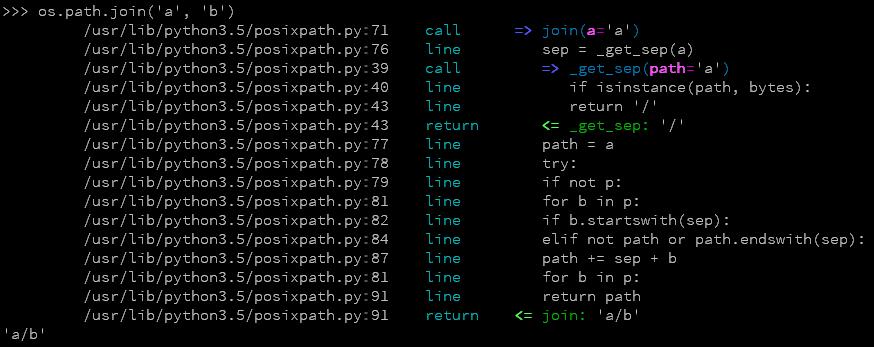
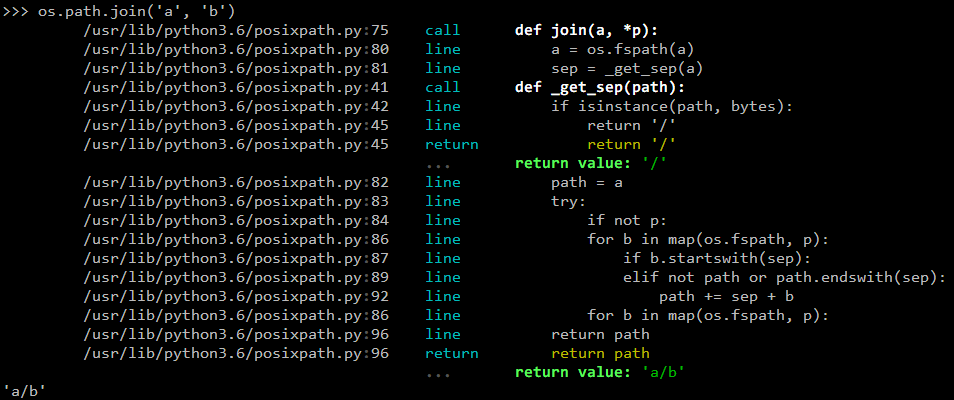
Update examples and screenshots.

diff --git a/README.rst b/README.rst
@@ -96,22 +96,23 @@ That would result in:
 .. sourcecode:: pycon
 
     >>> os.path.join('a', 'b')
-             /usr/lib/python3.5/posixpath.py:71    call      => join(a='a')
-             /usr/lib/python3.5/posixpath.py:76    line         sep = _get_sep(a)
-             /usr/lib/python3.5/posixpath.py:39    call         => _get_sep(path='a')
-             /usr/lib/python3.5/posixpath.py:40    line            if isinstance(path, bytes):
-             /usr/lib/python3.5/posixpath.py:43    line            return '/'
-             /usr/lib/python3.5/posixpath.py:43    return       <= _get_sep: '/'
-             /usr/lib/python3.5/posixpath.py:77    line         path = a
-             /usr/lib/python3.5/posixpath.py:78    line         try:
-             /usr/lib/python3.5/posixpath.py:79    line         if not p:
-             /usr/lib/python3.5/posixpath.py:81    line         for b in p:
-             /usr/lib/python3.5/posixpath.py:82    line         if b.startswith(sep):
-             /usr/lib/python3.5/posixpath.py:84    line         elif not path or path.endswith(sep):
-             /usr/lib/python3.5/posixpath.py:87    line         path += sep + b
-             /usr/lib/python3.5/posixpath.py:81    line         for b in p:
-             /usr/lib/python3.5/posixpath.py:91    line         return path
-             /usr/lib/python3.5/posixpath.py:91    return    <= join: 'a/b'
+             /usr/lib/python3.6/posixpath.py:75    call      => join(a='a')
+             /usr/lib/python3.6/posixpath.py:80    line         a = os.fspath(a)
+             /usr/lib/python3.6/posixpath.py:81    line         sep = _get_sep(a)
+             /usr/lib/python3.6/posixpath.py:41    call         => _get_sep(path='a')
+             /usr/lib/python3.6/posixpath.py:42    line            if isinstance(path, bytes):
+             /usr/lib/python3.6/posixpath.py:45    line            return '/'
+             /usr/lib/python3.6/posixpath.py:45    return       <= _get_sep: '/'
+             /usr/lib/python3.6/posixpath.py:82    line         path = a
+             /usr/lib/python3.6/posixpath.py:83    line         try:
+             /usr/lib/python3.6/posixpath.py:84    line         if not p:
+             /usr/lib/python3.6/posixpath.py:86    line         for b in map(os.fspath, p):
+             /usr/lib/python3.6/posixpath.py:87    line         if b.startswith(sep):
+             /usr/lib/python3.6/posixpath.py:89    line         elif not path or path.endswith(sep):
+             /usr/lib/python3.6/posixpath.py:92    line         path += sep + b
+             /usr/lib/python3.6/posixpath.py:86    line         for b in map(os.fspath, p):
+             /usr/lib/python3.6/posixpath.py:96    line         return path
+             /usr/lib/python3.6/posixpath.py:96    return    <= join: 'a/b'
     'a/b'
 
 In a terminal it would look like:
@@ -119,10 +120,13 @@ In a terminal it would look like:
 .. image:: https://raw.githubusercontent.com/ionelmc/python-hunter/master/docs/code-trace.png
 
 
-Custom actions
---------------
+Actions
+-------
 
-Output format can be controlled with "actions". There's an alternative ``CodePrinter`` action that doesn't handle nesting (it was the default action until Hunter 2.0). Example:
+Output format can be controlled with "actions". There's an alternative ``CodePrinter`` action that doesn't handle
+nesting (it was the default action until Hunter 2.0).
+
+If filters match then action will be run. Example:
 
 .. sourcecode:: python
 
@@ -137,23 +141,24 @@ That would result in:
 .. sourcecode:: pycon
 
     >>> os.path.join('a', 'b')
-             /usr/lib/python3.5/posixpath.py:71    call      def join(a, *p):
-             /usr/lib/python3.5/posixpath.py:76    line          sep = _get_sep(a)
-             /usr/lib/python3.5/posixpath.py:39    call      def _get_sep(path):
-             /usr/lib/python3.5/posixpath.py:40    line          if isinstance(path, bytes):
-             /usr/lib/python3.5/posixpath.py:43    line              return '/'
-             /usr/lib/python3.5/posixpath.py:43    return            return '/'
+             /usr/lib/python3.6/posixpath.py:75    call      def join(a, *p):
+             /usr/lib/python3.6/posixpath.py:80    line          a = os.fspath(a)
+             /usr/lib/python3.6/posixpath.py:81    line          sep = _get_sep(a)
+             /usr/lib/python3.6/posixpath.py:41    call      def _get_sep(path):
+             /usr/lib/python3.6/posixpath.py:42    line          if isinstance(path, bytes):
+             /usr/lib/python3.6/posixpath.py:45    line              return '/'
+             /usr/lib/python3.6/posixpath.py:45    return            return '/'
                                                    ...       return value: '/'
-             /usr/lib/python3.5/posixpath.py:77    line          path = a
-             /usr/lib/python3.5/posixpath.py:78    line          try:
-             /usr/lib/python3.5/posixpath.py:79    line              if not p:
-             /usr/lib/python3.5/posixpath.py:81    line              for b in p:
-             /usr/lib/python3.5/posixpath.py:82    line                  if b.startswith(sep):
-             /usr/lib/python3.5/posixpath.py:84    line                  elif not path or path.endswith(sep):
-             /usr/lib/python3.5/posixpath.py:87    line                      path += sep + b
-             /usr/lib/python3.5/posixpath.py:81    line              for b in p:
-             /usr/lib/python3.5/posixpath.py:91    line          return path
-             /usr/lib/python3.5/posixpath.py:91    return        return path
+             /usr/lib/python3.6/posixpath.py:82    line          path = a
+             /usr/lib/python3.6/posixpath.py:83    line          try:
+             /usr/lib/python3.6/posixpath.py:84    line              if not p:
+             /usr/lib/python3.6/posixpath.py:86    line              for b in map(os.fspath, p):
+             /usr/lib/python3.6/posixpath.py:87    line                  if b.startswith(sep):
+             /usr/lib/python3.6/posixpath.py:89    line                  elif not path or path.endswith(sep):
+             /usr/lib/python3.6/posixpath.py:92    line                      path += sep + b
+             /usr/lib/python3.6/posixpath.py:86    line              for b in map(os.fspath, p):
+             /usr/lib/python3.6/posixpath.py:96    line          return path
+             /usr/lib/python3.6/posixpath.py:96    return        return path
                                                    ...       return value: 'a/b'
     'a/b'
 
@@ -179,38 +184,32 @@ That would result in:
 .. sourcecode:: pycon
 
     >>> os.path.join('a', 'b')
-             /usr/lib/python3.5/posixpath.py:71    call      def join(a, *p):
-             /usr/lib/python3.5/posixpath.py:76    line          sep = _get_sep(a)
-                                                   vars      path => 'a'
-             /usr/lib/python3.5/posixpath.py:39    call      def _get_sep(path):
-                                                   vars      path => 'a'
-             /usr/lib/python3.5/posixpath.py:40    line          if isinstance(path, bytes):
-                                                   vars      path => 'a'
-             /usr/lib/python3.5/posixpath.py:43    line              return '/'
-                                                   vars      path => 'a'
-             /usr/lib/python3.5/posixpath.py:43    return            return '/'
-                                                   ...       return value: '/'
-             /usr/lib/python3.5/posixpath.py:77    line          path = a
-                                                   vars      path => 'a'
-             /usr/lib/python3.5/posixpath.py:78    line          try:
-                                                   vars      path => 'a'
-             /usr/lib/python3.5/posixpath.py:79    line              if not p:
-                                                   vars      path => 'a'
-             /usr/lib/python3.5/posixpath.py:81    line              for b in p:
-                                                   vars      path => 'a'
-             /usr/lib/python3.5/posixpath.py:82    line                  if b.startswith(sep):
-                                                   vars      path => 'a'
-             /usr/lib/python3.5/posixpath.py:84    line                  elif not path or path.endswith(sep):
-                                                   vars      path => 'a'
-             /usr/lib/python3.5/posixpath.py:87    line                      path += sep + b
-                                                   vars      path => 'a/b'
-             /usr/lib/python3.5/posixpath.py:81    line              for b in p:
-                                                   vars      path => 'a/b'
-             /usr/lib/python3.5/posixpath.py:91    line          return path
-                                                   vars      path => 'a/b'
-             /usr/lib/python3.5/posixpath.py:91    return        return path
-                                                   ...       return value: 'a/b'
+             /usr/lib/python3.6/posixpath.py:75    call      => join(a='a')
+             /usr/lib/python3.6/posixpath.py:75    call      [a := 'a']
+                                                   ...       [p := ('b',)]
+             /usr/lib/python3.6/posixpath.py:80    line         a = os.fspath(a)
+             /usr/lib/python3.6/posixpath.py:81    line         sep = _get_sep(a)
+             /usr/lib/python3.6/posixpath.py:41    call         => _get_sep(path='a')
+             /usr/lib/python3.6/posixpath.py:41    call      [path := 'a']
+             /usr/lib/python3.6/posixpath.py:42    line            if isinstance(path, bytes):
+             /usr/lib/python3.6/posixpath.py:45    line            return '/'
+             /usr/lib/python3.6/posixpath.py:45    return       <= _get_sep: '/'
+             /usr/lib/python3.6/posixpath.py:82    line         path = a
+             /usr/lib/python3.6/posixpath.py:82    line      [sep := '/']
+             /usr/lib/python3.6/posixpath.py:83    line         try:
+             /usr/lib/python3.6/posixpath.py:83    line      [path := 'a']
+             /usr/lib/python3.6/posixpath.py:84    line         if not p:
+             /usr/lib/python3.6/posixpath.py:86    line         for b in map(os.fspath, p):
+             /usr/lib/python3.6/posixpath.py:87    line         if b.startswith(sep):
+             /usr/lib/python3.6/posixpath.py:87    line      [b := 'b']
+             /usr/lib/python3.6/posixpath.py:89    line         elif not path or path.endswith(sep):
+             /usr/lib/python3.6/posixpath.py:92    line         path += sep + b
+             /usr/lib/python3.6/posixpath.py:86    line         for b in map(os.fspath, p):
+             /usr/lib/python3.6/posixpath.py:86    line      [path : 'a' => 'a/b']
+             /usr/lib/python3.6/posixpath.py:96    line         return path
+             /usr/lib/python3.6/posixpath.py:96    return    <= join: 'a/b'
     'a/b'
+
 
 In a terminal it would look like:
 
